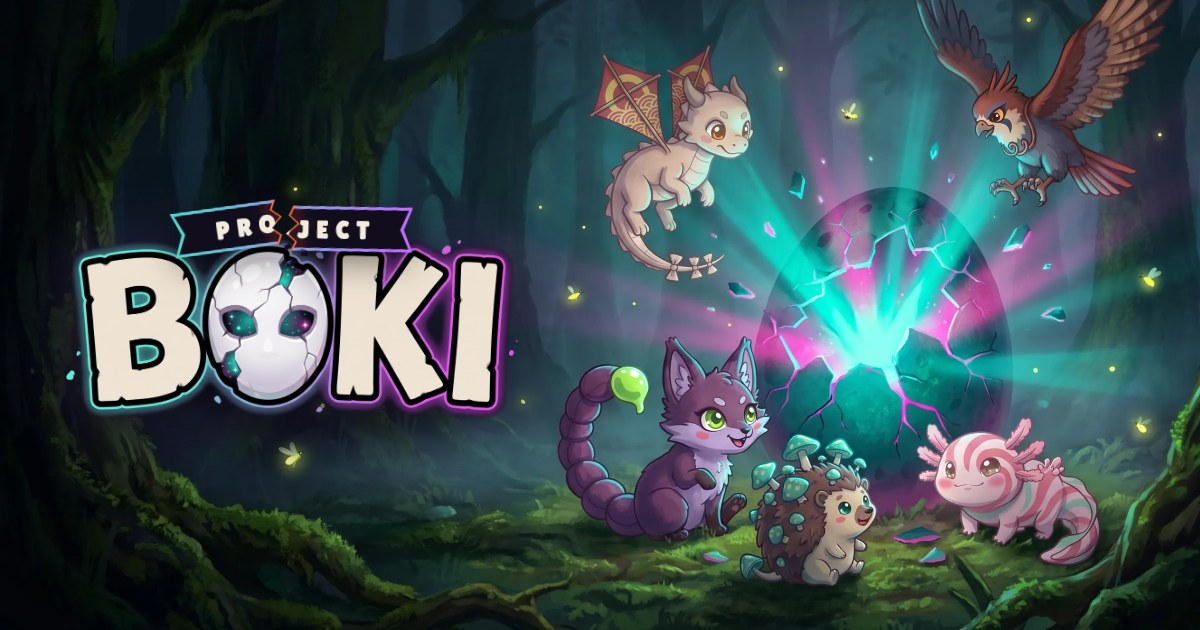
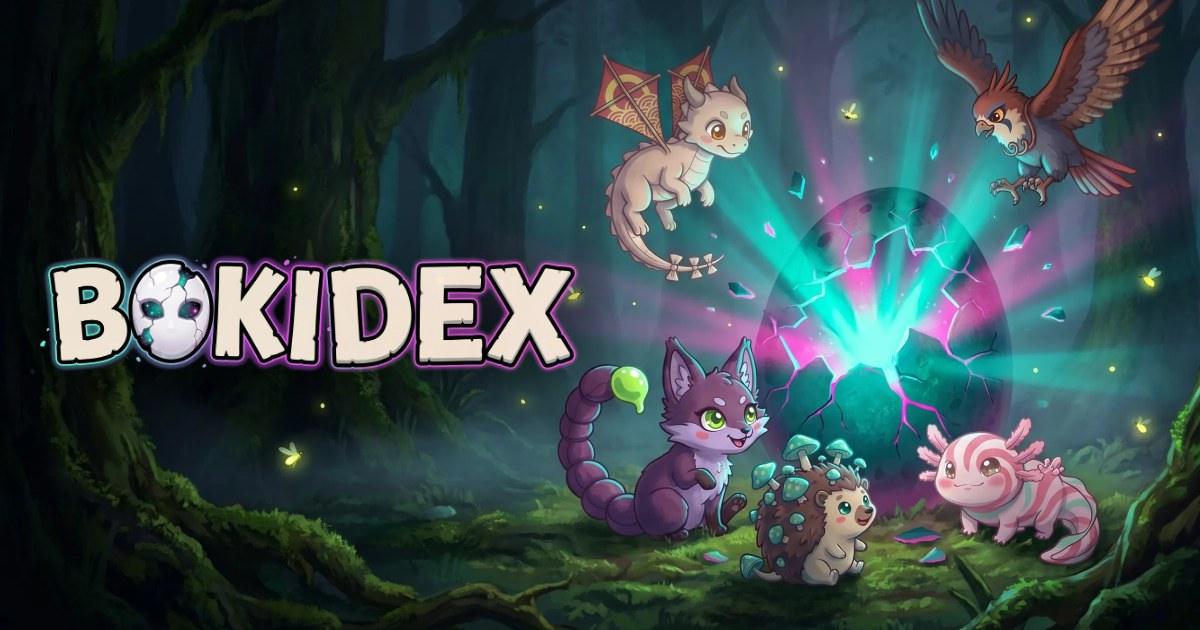
Bokidex share image: the BOKIDEX wordmark on the egg picture, nothing else
Claude-Session: https://claude.ai/code/session_015vSSPmpJoF22Rm1LS1od6V

Changed region(s): [[0.0308, 0.3016, 0.4933, 0.6635], [0.2158, 0.6937, 0.2467, 0.7238]]

diff --git a/tools/og/bokidex.html b/tools/og/bokidex.html
@@ -1,26 +1,12 @@
 <!doctype html><html><head><meta charset="utf-8"><title>Bokidex share image</title>
-<!-- The Bokidex link preview (assets/img/og-bokidex.jpg, 1200x630): the homepage's first screen, the hatching-egg picture with
-     the Project Boki logo on its calm left side. Re-render: node tools/og/render.js /tmp/og-bokidex.png bokidex.html (site served on :8765), then save as JPEG. -->
+<!-- The Bokidex link preview (assets/img/og-bokidex.jpg, 1200x630): the homepage's first-screen picture (the hatching egg) with
+     the BOKIDEX wordmark on its calm left side, and nothing else. Re-render: node tools/og/render.js /tmp/og-bokidex.png bokidex.html (site served on :8765), then save as JPEG. -->
 <style>
-@font-face { font-family: "Lilita"; src: url("../../assets/fonts/LilitaOne.woff2") format("woff2"); }
 html,body{margin:0;background:#05080f}
-.og{position:relative;width:1200px;height:630px;overflow:hidden;font-family:"Lilita"}
+.og{position:relative;width:1200px;height:630px;overflow:hidden}
 .bg{position:absolute;inset:0;background:url("../../assets/img/key/egg-2400.webp") 12% 50%/cover}
-.lock{position:absolute;left:66px;top:50%;transform:translateY(-52%)}
-.lockup{--wm:452px;display:flex;flex-direction:column;align-items:center;margin:0;line-height:0}
-.lockup .wordmark{width:var(--wm);height:auto;filter:drop-shadow(0 14px 36px rgba(0,0,0,.75)) drop-shadow(0 0 30px rgba(150,120,255,.25))}
-.pj { position: relative; z-index: 2; display: inline-flex; white-space: nowrap; font-family: "Lilita"; font-size: calc(var(--wm) * .054); line-height: 1; letter-spacing: .3em; color: #f3ecdd;
-  padding: .45em 1.5em .4em 1.8em; margin-bottom: -.5em; transform: rotate(-3deg); text-shadow: none; filter: drop-shadow(0 8px 18px rgba(0,0,0,.55)); }
-.pj i { font-style: normal; display: inline-block; }
-.pj-ghost { visibility: hidden; }
-.pj-pc { position: absolute; inset: 0; display: flex; align-items: center; justify-content: center; padding: inherit; }
-.pj-l { transform: translate(-.3em, -.12em) rotate(-5deg); }
-.pj-r { transform: translate(.3em, .22em) rotate(4deg); }
-.pj-pl, .pj-pl::after { position: absolute; clip-path: polygon(0 0, 100% 0, 96% 50%, 100% 100%, 0 100%, 4% 50%); }
-.pj-pl { inset: 0; z-index: -1; background: linear-gradient(90deg, #4fd8cb, #c36bff); }
-.pj-pl::after { content: ""; inset: 3px 4px; background: #120d1d; }
-.pj-edge { position: absolute; left: 0; top: 0; width: 100%; height: 100%; z-index: 1; overflow: visible; }
-.pj-edge .soft { fill: rgba(255, 80, 40, .35); filter: blur(3px); }
-.pj-edge .core { fill: #ff6a3a; }
-.pj-chip { position: absolute; width: .42em; height: .32em; background: linear-gradient(135deg, #8f7bff, #120d1d 45%); clip-path: polygon(0 20%, 60% 0, 100% 55%, 40% 100%); transform: rotate(var(--r, 0deg)); filter: drop-shadow(0 0 4px rgba(255,90,50,.7)); }
-</style></head><body><div class="og" id="og"><div class="bg"></div><div class="lock"><h1 class="lockup" aria-label="Project Boki"><span class="pj" aria-hidden="true"><span class="pj-ghost"><i>P</i><i>R</i><i>O</i><i>J</i><i>E</i><i>C</i><i>T</i></span><span class="pj-pc pj-l" style="clip-path:polygon(-5% -10%,-5% 110%,45% 110%,48% 80%,44% 62%,49% 40%,45% 22%,48% -10%)"><span class="pj-pl"><svg class="pj-edge" viewBox="0 0 100 100" preserveAspectRatio="none"><polygon class="soft" points="47.06,0 45,22 49,40 44,62 48,80 46,100 42.8,100 44.8,80 40.8,62 45.8,40 41.8,22 43.86,0"/><polygon class="core" points="47.06,0 45,22 49,40 44,62 48,80 46,100 45.1,100 47.1,80 43.1,62 48.1,40 44.1,22 46.16,0"/></svg></span><i>P</i><i>R</i><i>O</i><i>J</i><i>E</i><i>C</i><i>T</i></span><span class="pj-pc pj-r" style="clip-path:polygon(48% -10%,45% 22%,49% 40%,44% 62%,48% 80%,45% 110%,105% 110%,105% -10%)"><span class="pj-pl"><svg class="pj-edge" viewBox="0 0 100 100" preserveAspectRatio="none"><polygon class="soft" points="47.06,0 45,22 49,40 44,62 48,80 46,100 49.2,100 51.2,80 47.2,62 52.2,40 48.2,22 50.26,0"/><polygon class="core" points="47.06,0 45,22 49,40 44,62 48,80 46,100 46.9,100 48.9,80 44.9,62 49.9,40 45.9,22 47.96,0"/></svg></span><i>P</i><i>R</i><i>O</i><i>J</i><i>E</i><i>C</i><i>T</i></span><span class="pj-chip" style="left:45%;top:92%"></span><span class="pj-chip" style="left:52%;top:108%;--r:35deg"></span><span class="pj-chip" style="left:47%;top:128%;--r:-20deg"></span></span><img class="wordmark" src="../../assets/img/wordmark-boki-2000.webp"  sizes="(max-width: 720px) 90vw, 720px" width="2000" height="827" alt="" fetchpriority="high"></h1></div></div></body></html>
+.word{position:absolute;left:40px;top:50%;margin:0;transform:translateY(-52%);line-height:0;filter:drop-shadow(0 14px 36px rgba(0,0,0,.75))}
+.word img{display:block;width:540px;height:auto}
+</style></head><body><div class="og" id="og"><div class="bg"></div>
+<h1 class="word" aria-label="Bokidex"><img src="../../assets/img/wordmark-bokidex-2400.webp" alt=""></h1>
+</div></body></html>

diff --git a/bokidex/index.html b/bokidex/index.html
@@ -12,11 +12,11 @@
 <meta property="og:url" content="https://projectboki.com/bokidex/">
 <meta property="og:title" content="Bokidex · Project Boki">
 <meta property="og:description" content="Meet the Boki.">
-<meta property="og:image" content="https://projectboki.com/assets/img/og-bokidex.jpg?v=6">
+<meta property="og:image" content="https://projectboki.com/assets/img/og-bokidex.jpg?v=7">
 <meta property="og:image:width" content="1200">
 <meta property="og:image:height" content="630">
 <meta name="twitter:card" content="summary_large_image">
-<meta name="twitter:image" content="https://projectboki.com/assets/img/og-bokidex.jpg?v=6">
+<meta name="twitter:image" content="https://projectboki.com/assets/img/og-bokidex.jpg?v=7">
 <link rel="icon" href="/favicon.ico" sizes="any">
 <link rel="stylesheet" href="https://fonts.googleapis.com/css2?family=Lilita+One&family=Inter:wght@400;500;600;700;800&family=JetBrains+Mono:wght@500;700&display=swap">
 <script>/* theme: saved choice, else whatever the host set, else the OS setting. Set before first paint. */

diff --git a/tools/bokidex/patch.py b/tools/bokidex/patch.py
@@ -22,11 +22,11 @@ TAGS = """<!-- Share preview (site repo: tools/bokidex/patch.py). -->
 <meta property="og:url" content="https://projectboki.com/bokidex/">
 <meta property="og:title" content="Bokidex · Project Boki">
 <meta property="og:description" content="Meet the Boki.">
-<meta property="og:image" content="https://projectboki.com/assets/img/og-bokidex.jpg?v=6">
+<meta property="og:image" content="https://projectboki.com/assets/img/og-bokidex.jpg?v=7">
 <meta property="og:image:width" content="1200">
 <meta property="og:image:height" content="630">
 <meta name="twitter:card" content="summary_large_image">
-<meta name="twitter:image" content="https://projectboki.com/assets/img/og-bokidex.jpg?v=6">
+<meta name="twitter:image" content="https://projectboki.com/assets/img/og-bokidex.jpg?v=7">
 """
 SWIPE = '<script>\n/* Swipe left / right on an open entry to go to the next / previous Boki (and between pictures when one is zoomed).\n   Added from the projectboki.com site repo: keep this block in exports. Horizontal scrollers, the 3D viewer and form\n   fields keep their own swipes. */\n(function(){\n  let x0=0,y0=0,t0=0,ok=false;\n  const scroller=el=>{for(let n=el;n&&n!==document.body;n=n.parentElement){if(n.scrollWidth>n.clientWidth+4){const o=getComputedStyle(n).overflowX;if(o==="auto"||o==="scroll")return true}}return false};\n  addEventListener("touchstart",e=>{\n    if(e.touches.length!==1){ok=false;return}\n    const t=e.touches[0];x0=t.clientX;y0=t.clientY;t0=Date.now();\n    const zoom=!$("#zoom").hidden, el=e.target;\n    ok=zoom||(view==="dex"&&!!sel&&!viewerOpen()&&!!el.closest("#detail")&&!scroller(el)&&!el.closest("input,textarea,select,canvas,model-viewer,[data-noswipe]"));\n  },{passive:true});\n  addEventListener("touchend",e=>{\n    if(!ok)return; ok=false;\n    const t=e.changedTouches[0],dx=t.clientX-x0,dy=t.clientY-y0;\n    if(Date.now()-t0>800||Math.abs(dx)<55||Math.abs(dx)<Math.abs(dy)*1.6)return;\n    const d=dx<0?1:-1;\n    if(!$("#zoom").hidden){if(zoomList.length>1){zoomI=(zoomI+d+zoomList.length)%zoomList.length;$("#zoom-img").src=zoomList[zoomI]}return}\n    const det=$("#detail"), was=sel;\n    moveSel(d);\n    if(sel===was||!det||matchMedia("(prefers-reduced-motion: reduce)").matches)return;\n    det.animate([{transform:`translateX(${d*42}px)`,opacity:.35},{transform:"none",opacity:1}],{duration:260,easing:"cubic-bezier(.2,.8,.2,1)"});\n  },{passive:true});\n})();\n</script>\n'
 
